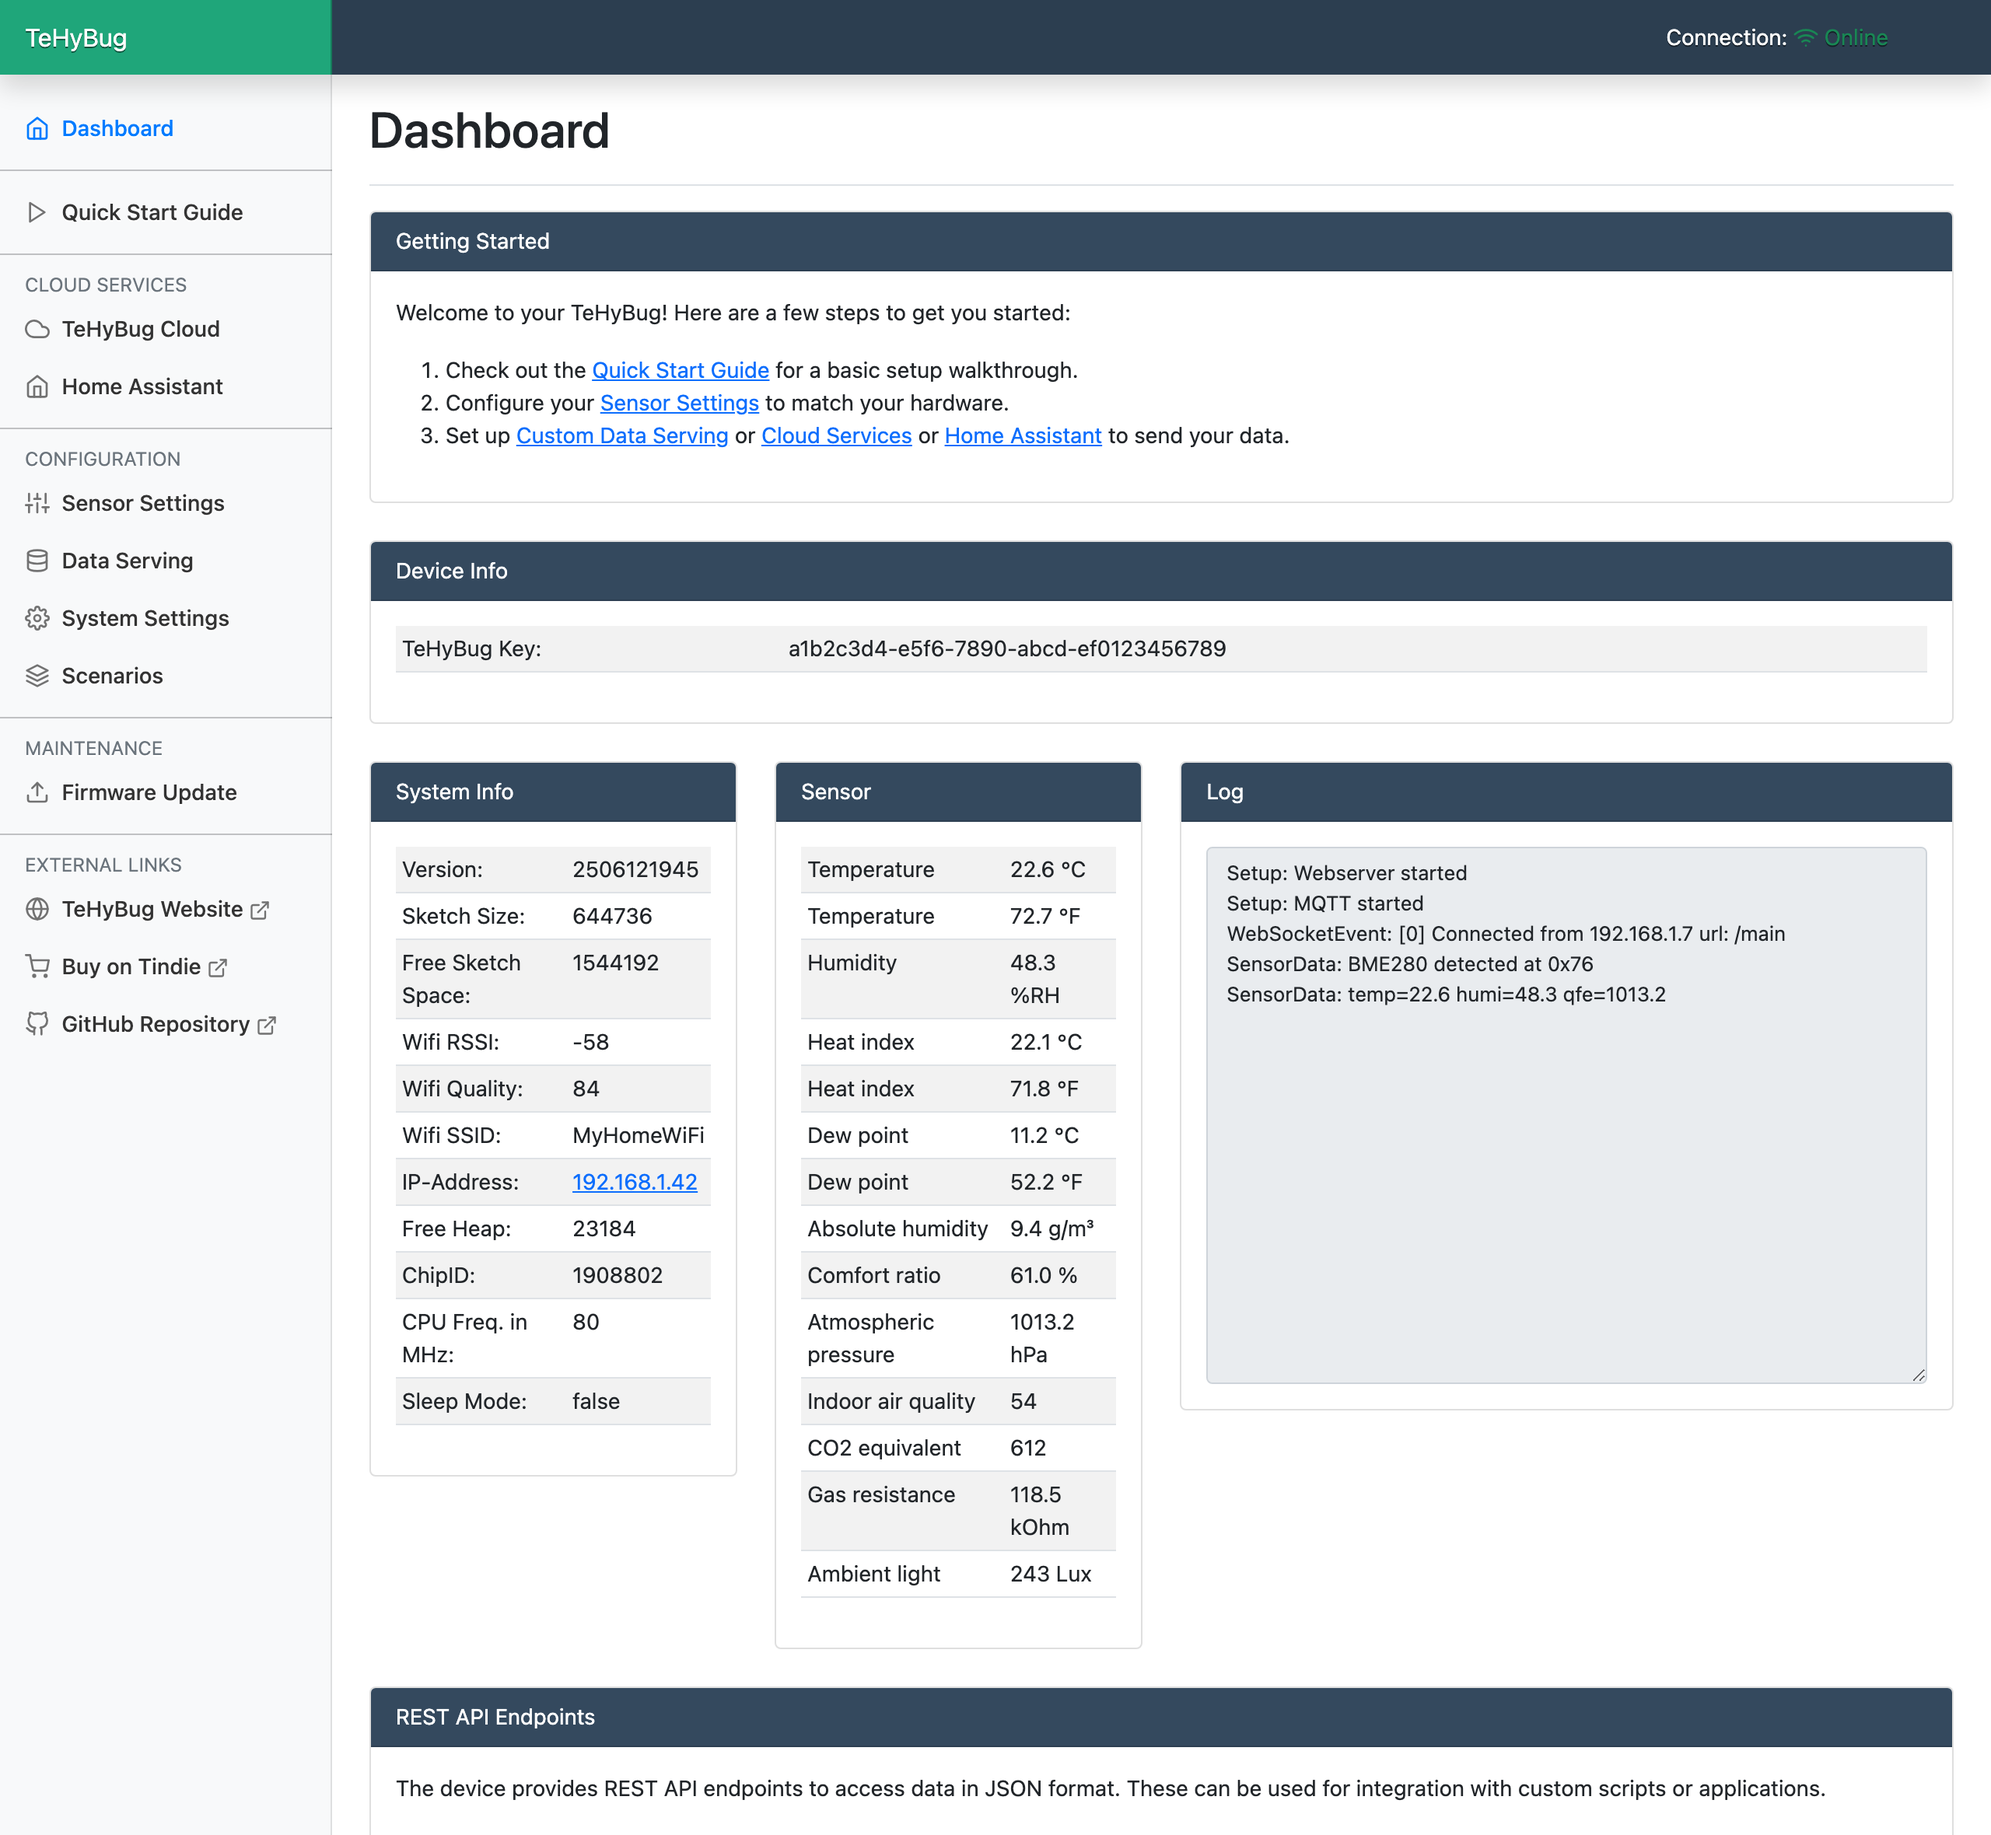
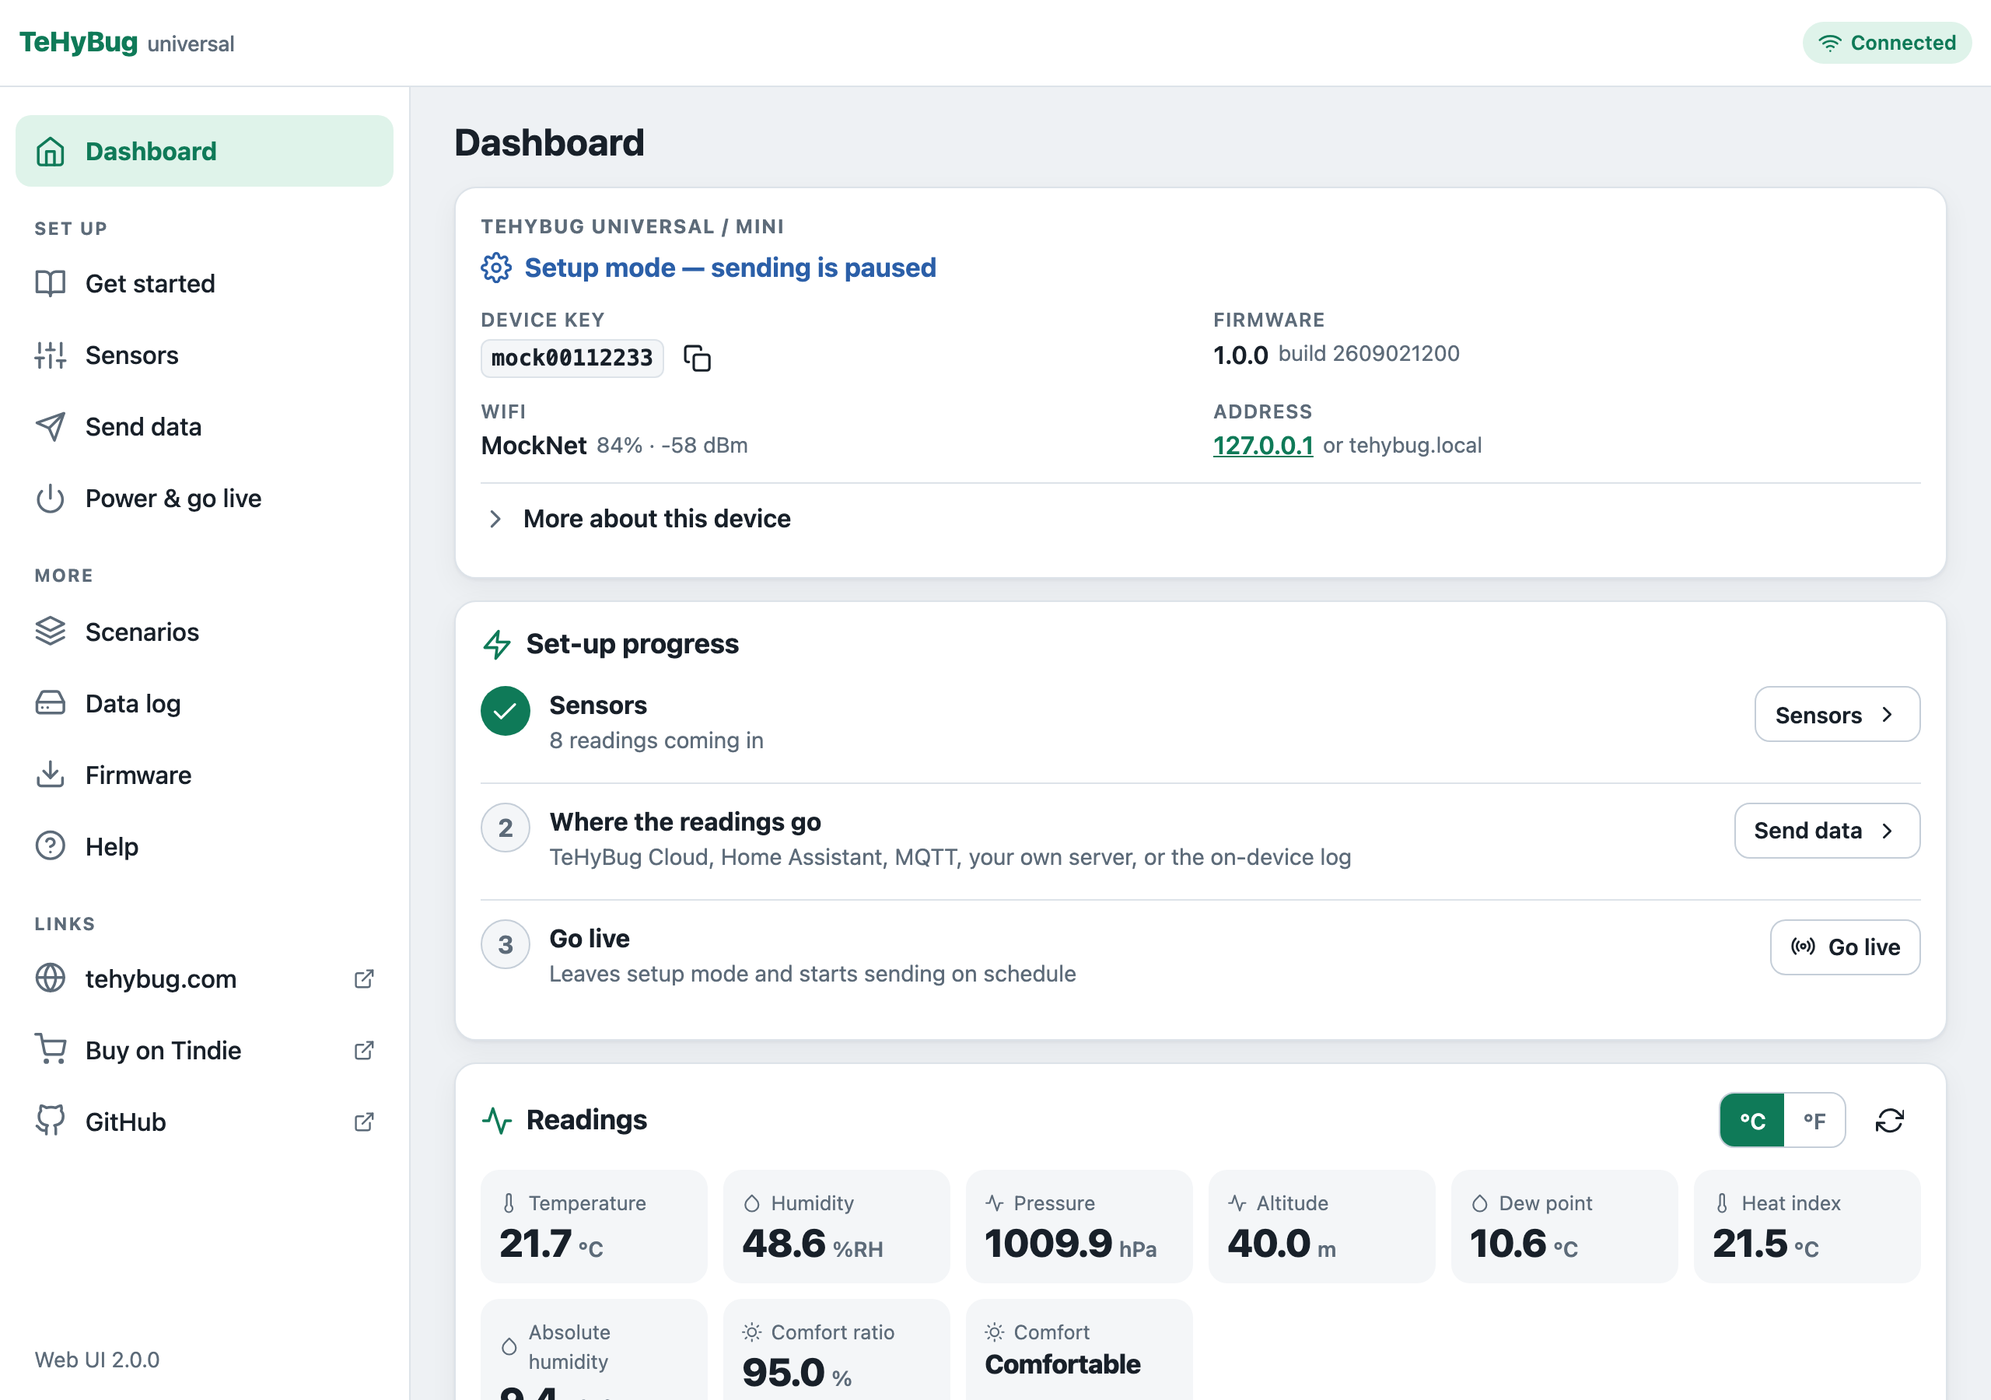
README: show the v2 web interface
Desktop and phone captures of the new interface replace the picture of
the old one. tools/screenshot.js takes them: it drives a headless Chrome
over the DevTools protocol, because Chrome's own --screenshot cannot open
a phone-sized window and stops the page - closing the websocket - before
it captures.

diff --git a/tools/screenshot.js b/tools/screenshot.js
@@ -1,0 +1,66 @@
+#!/usr/bin/env node
+/* Screenshots of the web UI, e.g. for the README: drives a headless Chrome
+ * over the DevTools protocol so a phone-sized viewport can be emulated
+ * (Chrome's own --screenshot cannot open a window narrower than ~500 px and
+ * stops the page - closing the websocket - before it captures).
+ *
+ *   node tools/mock-device.js &
+ *   node tools/screenshot.js http://localhost:8285/#/dashboard images/webgui.png --width 1280 --height 900
+ *   node tools/screenshot.js http://localhost:8285/#/senddata images/webgui-phone.png --width 390 --height 844 --mobile
+ *
+ * Options: --width --height (CSS px), --scale (device pixel ratio, default 2),
+ * --mobile (touch + mobile UA), --dark (prefers-color-scheme: dark),
+ * --wait ms (default 4000, time for the websocket and readings to arrive).
+ * CHROME=/path/to/chrome overrides the binary. */
+'use strict';
+const { spawn } = require('child_process');
+const http = require('http');
+const fs = require('fs');
+const os = require('os');
+const path = require('path');
+
+const args = process.argv.slice(2);
+const positional = args.filter(a => !a.startsWith('--'));
+const flag = name => args.includes('--' + name);
+const opt = (name, def) => { const i = args.indexOf('--' + name); return i >= 0 && args[i + 1] ? args[i + 1] : def; };
+const [url, out] = positional;
+if (!url || !out) { console.error('usage: screenshot.js <url> <out.png> [--width N --height N --scale N --mobile --dark --wait ms]'); process.exit(2); }
+const width = parseInt(opt('width', '1280'), 10), height = parseInt(opt('height', '900'), 10);
+const scale = parseFloat(opt('scale', '2')), wait = parseInt(opt('wait', '4000'), 10);
+const CHROME = process.env.CHROME || '/Applications/Google Chrome.app/Contents/MacOS/Google Chrome';
+const port = 9222 + Math.floor(Math.random() * 500);
+const profile = fs.mkdtempSync(path.join(os.tmpdir(), 'tehybug-shot-'));
+const sleep = ms => new Promise(r => setTimeout(r, ms));
+const getJson = (u, method) => new Promise((res, rej) => {
+  const req = http.request(u, { method: method || 'GET' }, r => { let b = ''; r.on('data', c => b += c); r.on('end', () => { try { res(JSON.parse(b)); } catch (e) { rej(new Error('bad json from ' + u + ': ' + b.slice(0, 100))); } }); });
+  req.on('error', rej); req.end();
+});
+
+(async () => {
+  // Chrome's stderr goes to a file: with stdio ignored this (Rosetta) build
+  // never came up on the debugging port
+  const log = fs.openSync(path.join(profile, 'chrome.log'), 'w');
+  const chrome = spawn(CHROME, ['--headless=new', '--no-first-run', '--no-default-browser-check', '--disable-extensions', '--disable-gpu', '--hide-scrollbars', '--force-color-profile=srgb', '--remote-debugging-port=' + port, '--user-data-dir=' + profile, 'about:blank'], { stdio: ['ignore', log, log] });
+  const cleanup = () => { try { chrome.kill('SIGKILL'); } catch (e) { /* gone */ } try { fs.rmSync(profile, { recursive: true, force: true }); } catch (e) { /* */ } };
+  process.on('exit', cleanup);
+  try {
+    let target = null, lastError = '';
+    for (let i = 0; i < 75 && !target; i++) { await sleep(200); try { target = await getJson('http://127.0.0.1:' + port + '/json/new?about:blank', 'PUT'); } catch (e) { lastError = e.message; } }
+    if (!target) throw new Error('Chrome did not come up on port ' + port + ' (' + lastError + ')');
+    const ws = new WebSocket(target.webSocketDebuggerUrl);
+    await new Promise((res, rej) => { ws.onopen = res; ws.onerror = () => rej(new Error('devtools socket failed')); });
+    let seq = 0; const pending = new Map();
+    ws.onmessage = e => { const m = JSON.parse(e.data); if (m.id && pending.has(m.id)) { const p = pending.get(m.id); pending.delete(m.id); m.error ? p.reject(new Error(m.error.message)) : p.resolve(m.result); } };
+    const send = (method, params) => new Promise((resolve, reject) => { const id = ++seq; pending.set(id, { resolve, reject }); ws.send(JSON.stringify({ id, method, params: params || {} })); });
+    await send('Emulation.setDeviceMetricsOverride', { width, height, deviceScaleFactor: scale, mobile: flag('mobile') });
+    if (flag('mobile')) await send('Emulation.setTouchEmulationEnabled', { enabled: true });
+    if (flag('dark')) await send('Emulation.setEmulatedMedia', { features: [{ name: 'prefers-color-scheme', value: 'dark' }] });
+    await send('Page.enable');
+    await send('Page.navigate', { url });
+    await sleep(wait);
+    const shot = await send('Page.captureScreenshot', { format: 'png', captureBeyondViewport: false });
+    fs.writeFileSync(out, Buffer.from(shot.data, 'base64'));
+    console.log('wrote ' + out + ' (' + width + 'x' + height + ' @' + scale + 'x)');
+    ws.close();
+  } finally { cleanup(); }
+})().catch(e => { console.error(e.message); process.exit(1); });

diff --git a/README.md b/README.md
@@ -172,7 +172,9 @@ Replace /dev/cu.usbserial-1410 with your usb2serial port.
 
 ## Web Gui
   
-<img src="images/webgui.png" width="800">
+<img src="images/webgui.png" width="620"> <img src="images/webgui-phone.png" width="190">
+
+The web interface is built for phones first (the pictures are the mock device in `tools/`; captured with `tools/screenshot.js`).
 
 Demo of the web interface (a simulated device, nothing to flash): https://tehybug.com/tehybug/v2/demo.html — add `?board=display` for the Display Weatherstation pages.
 
